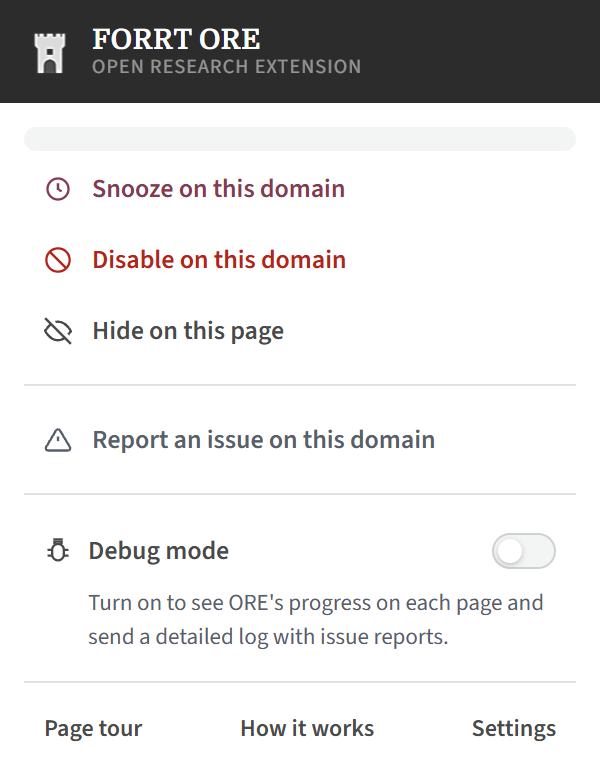
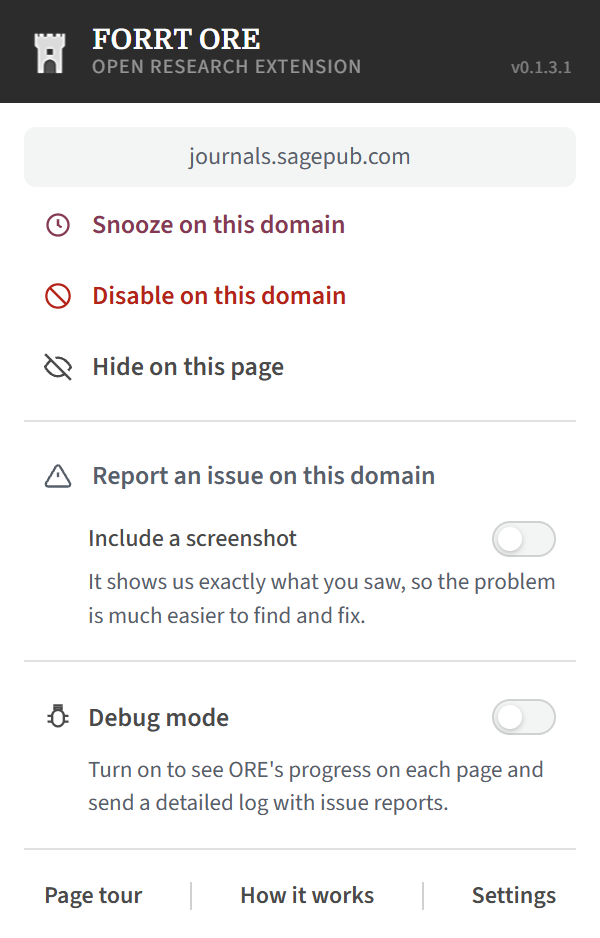
Popup fixes

diff --git a/scripts/docs-screenshots.ts b/scripts/docs-screenshots.ts
@@ -21,12 +21,13 @@ import {
   install,
 } from "@puppeteer/browsers";
 import puppeteer from "puppeteer-core";
-import { existsSync, mkdirSync } from "node:fs";
+import { existsSync, mkdirSync, readFileSync } from "node:fs";
 import os from "node:os";
 import path from "node:path";
 import { fileURLToPath } from "node:url";
 
 const REPO_ROOT = path.resolve(path.dirname(fileURLToPath(import.meta.url)), "..");
+const VERSION = JSON.parse(readFileSync(path.join(REPO_ROOT, "package.json"), "utf-8")).version as string;
 const OUT_DIR = path.join(REPO_ROOT, "docs", "img");
 
 /** Walkthrough step index -> screenshot file name; null for prose-only steps. */
@@ -51,8 +52,14 @@ window.chrome = {
     session: { get: () => Promise.resolve({}), set: () => Promise.resolve() },
     onChanged: { addListener: () => {} },
   },
-  runtime: { sendMessage: () => Promise.resolve({}), getURL: (p) => p, openOptionsPage: () => {}, lastError: null },
-  tabs: { query: () => Promise.resolve([{ id: 1, url: "https://journals.sagepub.com/doi/10.1177/0956797612441216" }]) },
+  runtime: {
+    sendMessage: () => Promise.resolve({}), getURL: (p) => p, openOptionsPage: () => {}, lastError: null,
+    getManifest: () => ({ name: "FORRT ORE", version: "${VERSION}" }),
+  },
+  tabs: {
+    query: () => Promise.resolve([{ id: 1, windowId: 1, url: "https://journals.sagepub.com/doi/10.1177/0956797612441216" }]),
+    sendMessage: () => Promise.reject(new Error("no content script")),
+  },
 };
 `;
 

diff --git a/src/popup/popup.html b/src/popup/popup.html
@@ -111,7 +111,9 @@
 
       <nav class="popup-footer" aria-label="More">
         <button id="page-tour-btn" class="popup-link" type="button">Page tour</button>
+        <span class="popup-footer-sep" aria-hidden="true"></span>
         <button id="tour-btn" class="popup-link" type="button">How it works</button>
+        <span class="popup-footer-sep" aria-hidden="true"></span>
         <button id="options-btn" class="popup-link" type="button">Settings</button>
       </nav>
     </div>

diff --git a/src/popup/popup.css b/src/popup/popup.css
@@ -289,8 +289,16 @@ a:focus-visible {
 
 .popup-footer {
   display: flex;
+  align-items: center;
   justify-content: space-between;
   padding: 0 4px;
+}
+
+.popup-footer-sep {
+  width: 1px;
+  height: 14px;
+  background: var(--border);
+  flex-shrink: 0;
 }
 
 .popup-link {
